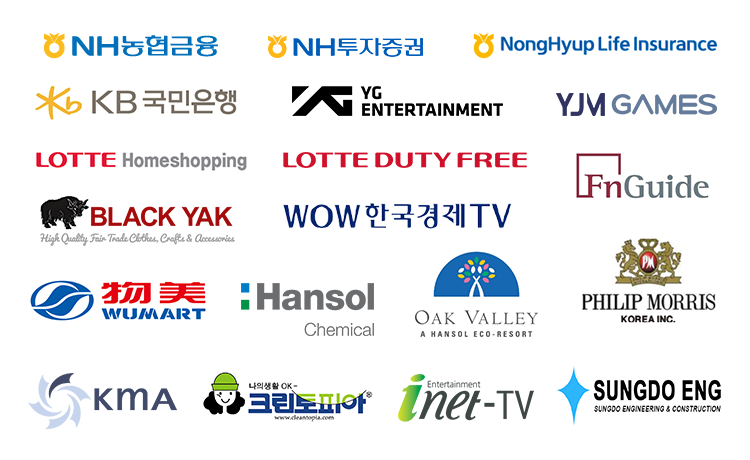
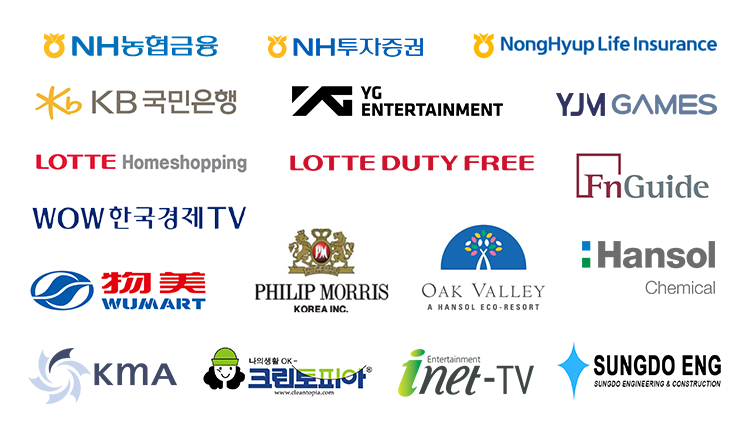
Edited team advisor section & replaced sponsor image

diff --git a/style.css b/style.css
@@ -453,6 +453,18 @@ ul.roadmap li {padding:5px 0;}
 
 .team-title {height:100px;}
 
+.team-advisor {
+	border-top-left-radius: 50px;
+	border-bottom-right-radius: 50px;
+	padding:60px 15px;
+	margin-top:60px;
+	text-align:center;
+	background:rgba(0,0,0,0.3);
+	width:100%;
+}
+
+.team-advisor h3 {text-transform:none; color:#fff !important;}
+
 #contact {
 	background:#001a3d;
 }

diff --git a/index.php b/index.php
@@ -717,11 +717,10 @@ height="0" width="0" style="display:none;visibility:hidden"></iframe></noscript>
         </div>
       </div>
     </div>
-    <div style="height:1px; width:100%; opacity:0.2; background:#fff; margin:60px 0;"></div>
-    <div style="text-align:center;">
+    <div class="team-advisor">
       <h2>Advisers</h2>
       <br>
-      <h4>Link to honorary advisers on the W-Foundation website:</h4>
+      <h3>Link to honorary advisers on the W-Foundation website:</h3>
       <h4>KOR: <a href="http://www.gcrfund.org/honorary_advisors/" style="color:#87b44c;" target="_blank">http://www.gcrfund.org/honorary_advisors/</a></h4>
       <h4>ENG: <a href="http://www.gcrfund.org/en/honorary-advisors/" style="color:#87b44c;" target="_blank">http://www.gcrfund.org/en/honorary-advisors/</a></h4>
     </div>

diff --git a/index-kr.php b/index-kr.php
@@ -715,8 +715,7 @@ Private Sale
 </div>
 </div>
 </div>
-<div style="height:1px; width:100%; opacity:0.2; background:#fff; margin:60px 0;"></div>
-<div style="text-align:center;">
+<div class="team-advisor">
 <h2>명예고문</h2>
 <br>
 <h4>W재단 명예고문단 링크</h4>
